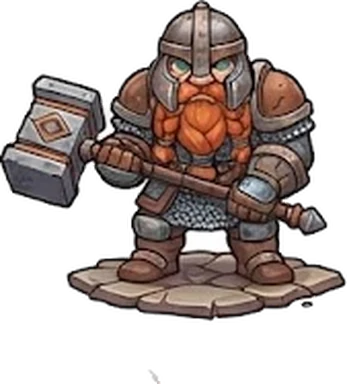
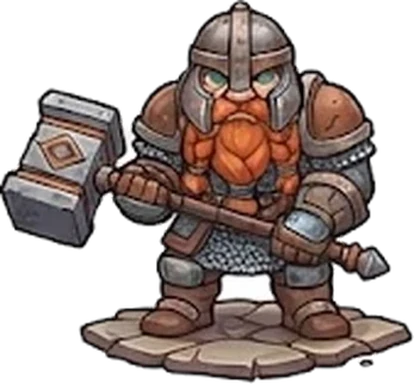
Brann bien colocado en su tarjeta, sin etiqueta Héroe y Morgana se carga en 30 s

diff --git a/sw.js b/sw.js
@@ -2,7 +2,7 @@
 // Guarda el juego para poder jugar sin conexión. Página, JS y CSS van
 // primero a la red (así se ven los cambios al momento); imágenes y fuentes
 // salen de la caché y se renuevan por detrás.
-var CACHE = 'reino-de-torres-v68';
+var CACHE = 'reino-de-torres-v69';
 var CORE = ['./', 'index.html', 'style.css', 'favicon.svg', 'manifest.json', 'js/data.js', 'js/version.js', 'js/art.js', 'js/meta.js', 'js/board.js', 'js/battle.js', 'js/ui.js', 'assets/ui/boton.webp', 'assets/ui/boton-jugar.webp', 'assets/ui/banner-mazo.webp', 'assets/ui/hueco-cofre.webp', 'assets/ui/boton-duelo.webp', 'assets/ui/boton-coop.webp', 'assets/ui/banner-comandante.webp', 'assets/ui/header.webp', 'assets/ui/navbar.webp', 'assets/ui/titulo.webp', 'assets/ui/letrero.webp', 'assets/tablero.webp', 'assets/enemies/blob.webp', 'assets/ui/fondo.webp', 'assets/ui/boton-invocar.webp', 'assets/ui/marco-carta.webp', 'assets/ui/carta.webp', 'assets/ui/vida.webp', 'assets/ui/mana.webp', 'assets/ui/contador-mana.webp', 'assets/ui/comandante.webp', 'assets/ui/boton-invocar-2.webp', 'assets/ui/boton-invocar-gris.webp', 'assets/ui/marco.webp', 'assets/ui/marco-tienda.webp', 'assets/ui/filtro-rareza.webp', 'assets/ui/filtro-rareza-h.webp?v=2', 'assets/ui/modo-campana.webp', 'assets/ui/modo-duelo.webp', 'assets/ui/modo-coop.webp', 'assets/ui/modo-torneo.webp', 'assets/ui/modo-coop-limpio.webp', 'assets/ui/modo-roguelike.webp', 'assets/chests/destello.webp', 'assets/chests/moneda.webp', 'assets/chests/oro-monedas.webp', 'assets/chests/oro-saco.webp', 'assets/chests/oro-cofre.webp', 'assets/commanders/aria.webp?v=2', 'assets/commanders/aria-cuerpo.webp', 'assets/commanders/merlo.webp?v=2', 'assets/commanders/merlo-cuerpo.webp', 'assets/commanders/brann.webp?v=2', 'assets/commanders/brann-cuerpo.webp', 'assets/commanders/nyx.webp', 'assets/commanders/nyx-cuerpo.webp', 'assets/commanders/sol.webp', 'assets/commanders/sol-cuerpo.webp', 'assets/commanders/morgana.webp', 'assets/commanders/morgana-cuerpo.webp', 'assets/commanders/torvald.webp', 'assets/commanders/torvald-cuerpo.webp', 'assets/events/eclipse.webp', 'assets/events/lluvia.webp', 'assets/events/niebla.webp', 'assets/events/horda.webp', 'assets/events/calma.webp', 'assets/boards/lava2.webp', 'assets/boards/hielo.webp', 'assets/boards/roca.webp', 'assets/boards/veneno.webp', 'assets/ui/tarjeta-tienda.webp', 'assets/ui/misiones.webp', 'assets/fx/eco-resuena.webp', 'assets/fx/fusion-eco.webp', 'assets/fx/oria-interes.webp', 'assets/fx/garra-lobo.webp', 'assets/fx/garra-lobo-2.webp', 'assets/ui/tarjeta-comandante-2.webp', 'assets/ui/arbol-talentos.webp', 'assets/ui/arbol-comandante.webp', 'assets/fx/nyx-maldicion.webp', 'assets/fx/nyx-chispas.webp', 'assets/fx/sol-escudo.webp', 'assets/fx/morgana-ensamblaje.webp', 'assets/fx/torvald-forja.webp', 'assets/fx/torvald-carga.webp', 'assets/fx/ventisca.webp', 'assets/fx/marea.webp', 'assets/fx/meteoro.webp', 'assets/fx/crater.webp', 'assets/fx/boreas-ventisca.webp', 'assets/fx/midas-critico.webp', 'assets/fx/estado-helado.webp', 'assets/fx/estado-armadura.webp', 'assets/fx/estado-quemado.webp', 'assets/fx/estado-veneno.webp', 'assets/fx/estado-critico.webp', 'assets/fx/estado-aturdido.webp', 'assets/chests/oro-rebosante.webp', 'assets/tiles/altar.webp', 'assets/tiles/fuente.webp', 'assets/tiles/atalaya.webp', 'assets/fx/muerte-puf.webp', 'assets/fx/invocar.webp', 'assets/fx/fusion.webp', 'assets/fx/fusion-doblon.webp', 'assets/fx/mover.webp', 'assets/fx/ralentizado-1.webp', 'assets/fx/ralentizado-2.webp', 'assets/fx/ralentizado-3.webp', 'assets/fx/ralentizado-4.webp', 'assets/fx/ralentizado-5.webp', 'assets/fx/conector-fuego.webp', 'assets/fx/conector-hielo.webp', 'assets/fx/conector-naturaleza.webp', 'assets/fx/conector-arcano.webp', 'assets/fx/conector-metal.webp'].concat(['lyra', 'brasa', 'nivea', 'doblon', 'rocco', 'volta', 'mirra', 'melodia', 'sombra', 'cronos', 'halcon', 'ulric', 'fenix', 'aurora', 'titan', 'boreas', 'midas', 'kaia', 'seren', 'oria', 'garra'].map(function (id) { return 'assets/cells/' + id + '.webp'; })).concat(['piedra-1'].map(function (k) { return 'assets/tiles/' + k + '.webp?v=2'; })).concat(['comun', 'rara', 'epica', 'mitica', 'legendaria'].map(function (k) { return 'assets/ui/tienda-' + k + '.webp'; })).concat(['lyra', 'brasa', 'nivea', 'doblon', 'rocco', 'volta', 'mirra', 'melodia', 'sombra', 'cronos', 'halcon', 'ulric', 'fenix', 'aurora', 'titan', 'boreas', 'midas', 'kaia', 'seren', 'eco', 'oria', 'garra'].map(function (id) { return 'assets/units/' + id + '.webp'; })).concat(['lyra', 'brasa', 'nivea', 'doblon', 'rocco', 'volta', 'mirra', 'melodia', 'sombra', 'cronos', 'halcon', 'ulric', 'fenix', 'aurora', 'titan', 'boreas', 'midas', 'kaia', 'seren'].reduce(function (a, id) { return a.concat(['assets/units/board/' + id + '-idle.webp?v=2', 'assets/units/board/' + id + '-attack.webp']); }, [])).concat(['eco', 'oria', 'garra'].map(function (id) { return 'assets/units/board/' + id + '-idle.webp?v=2'; })).concat(['madera', 'plata', 'oro', 'comandante', 'legendario'].reduce(function (a, k) { return a.concat(['assets/chests/' + k + '.webp', 'assets/chests/' + k + '-abierto.webp', 'assets/chests/portal-' + k + '.webp']); }, ['assets/chests/legendario-abriendo.webp']).concat(['comun', 'rara', 'epica', 'mitica', 'legendaria'].reduce(function (a, k) { return a.concat(['assets/ui/fondo-carta-' + k + '.webp', 'assets/ui/cinta-' + k + '.webp']); }, []))).concat(['fuego', 'hielo', 'veneno', 'canon', 'flecha', 'rayo', 'sombra', 'engranaje', 'bala', 'luz'].reduce(function (a, k) { return a.concat(['destello', 'bola', 'impacto'].map(function (p) { return 'assets/fx/' + k + '-' + p + '.webp'; })); }, [])).concat(['moneda', 'gema', 'trofeo', 'estrella', 'gota', 'corona', 'espadas', 'escudo', 'candado', 'pergamino', 'ticket', 'reloj', 'fuego', 'hielo', 'hoja', 'arcano', 'engranaje', 'explosion', 'veneno', 'rayo', 'critico', 'perfora', 'musica', 'diana', 'grafico', 'vecinas', 'chispas', 'calavera', 'ola', 'rival-facil', 'rival-normal', 'rival-dificil', 'derrota', 'sonido', 'silencio', 'rapido', 'reiniciar', 'casa', 'aviso', 'mano', 'dado', 'recolocar', 'mejorar'].map(function (k) { return 'assets/icons/' + k + '.webp'; })).concat(['ghost', 'brute', 'orco', 'rocoso', 'escarcha', 'gelido', 'coloso', 'coloso2', 'nigro', 'dragon'].map(function (id) { return 'assets/enemies/' + id + '.webp'; }));
 self.addEventListener('install', function (e) { e.waitUntil(caches.open(CACHE).then(function (c) { return c.addAll(CORE); }).then(function () { return self.skipWaiting(); })); });
 self.addEventListener('activate', function (e) { e.waitUntil(caches.keys().then(function (ks) { return Promise.all(ks.filter(function (k) { return k !== CACHE; }).map(function (k) { return caches.delete(k); })); }).then(function () { return self.clients.claim(); })); });

diff --git a/js/ui.js b/js/ui.js
@@ -239,13 +239,12 @@ function renderMenu(name, arg) {
     var cs = COMMANDERS[meta.commander], cc = meta.cmdCards[meta.commander];
     var cNeed = cmdCardsNeeded(cc.lv), cGold = cmdUpgradeGold(cc.lv), cMax = cc.lv >= CMD_MAX;
     var cWhy = cMax ? '' : cc.n < cNeed ? (cNeed - cc.n === 1 ? 'Falta 1 carta' : 'Faltan ' + (cNeed - cc.n) + ' cartas') : meta.gold < cGold ? 'Te faltan ' + (cGold - meta.gold) + ' 🪙' : '';
-    html = backBar('Mazo', true) + deckTabs('commanders') + '<p class="lead">Su habilidad se carga durante la partida. Pulsa su retrato para usarla. Los héroes la usan sobre el tablero: eliges las tropas.</p>' +
+    html = backBar('Mazo', true) + deckTabs('commanders') + '<p class="lead">Su habilidad se carga durante la partida. Pulsa su retrato para usarla. Morgana y Torvald la usan sobre el tablero: eliges tú las tropas.</p>' +
       '<div class="cmd-cards">' + COMMANDER_ORDER.map(function (k, i) {
         var c = COMMANDERS[k];
         var own = cmdOwned(k);
         return '<button class="cmd-card' + (meta.commander === k ? ' sel' : '') + (own ? '' : ' locked') + '" data-cmd="' + k + '" style="--cc:' + c.color + '" aria-label="' + esc(c.name) + '">' +
           '<img class="cmd-body" src="' + c.body + '" alt=""><span class="cmd-frame"></span><b>' + esc(c.name) + '</b>' +
-          (c.hero ? '<span class="cmd-hero">Héroe</span>' : '') +
           (own ? '<span class="cmd-lv' + (canUpgradeCmd(k) ? ' ready' : '') + '">Nv ' + cmdLevel(k) + '</span>' : '<span class="cmd-lock">' + ico('icons/candado') + '</span>') +
           '</button>';
       }).join('') + '</div>' +
@@ -1843,7 +1842,7 @@ function initGame() {
     if (!battle || battleBusy()) return;
     if (COMMANDERS[battle.player.commander].hero) {
       if (battle.targeting) { cancelHeroTarget(); return; }
-      if (battle.player.charge < 1) { toast('El héroe aún se está cargando'); return; }
+      if (battle.player.charge < 1) { toast('El comandante aún se está cargando'); return; }
       if (!battle.player.heroPicks() && !battle.player.cells.some(function (u) { return u && u.rank < MAX_RANK; })) { toast('No tienes tropas que elegir'); return; }
       startHeroTarget();
       return;

diff --git a/js/data.js b/js/data.js
@@ -420,7 +420,7 @@ var COMMANDERS = {
   sol:   { name: 'Sol',   title: 'Paladín del Alba',      color: '#ffc83a', icon: '☀', locked: true, pic: 'assets/commanders/sol.webp', ability: 'Escudo divino', desc: 'Durante 5 segundos no pierdes vidas.', power: 5, cd: 40 },
   // héroes: su habilidad se usa sobre el tablero eligiendo tropas (hero: cuántas);
   // con nivel se cargan antes en vez de tener más fuerza
-  morgana: { name: 'Morgana', title: 'Inventora', color: '#2fd6a0', icon: '⚙', locked: true, pic: 'assets/commanders/morgana.webp', hero: 2, ability: 'Ensamblaje', desc: 'Eliges dos tropas del mismo rango, aunque sean distintas, y se fusionan.', power: 1, cd: 45 },
+  morgana: { name: 'Morgana', title: 'Inventora', color: '#2fd6a0', icon: '⚙', locked: true, pic: 'assets/commanders/morgana.webp', hero: 2, ability: 'Ensamblaje', desc: 'Eliges dos tropas del mismo rango, aunque sean distintas, y se fusionan.', power: 1, cd: 30 },
   torvald: { name: 'Torvald', title: 'Viejo Maestro', color: '#ff7a3c', icon: '🧮', locked: true, pic: 'assets/commanders/torvald.webp', hero: 1, ability: 'Forja', desc: 'Eliges una tropa y sube un rango, hasta el 5.', power: 1, cd: 110 }
 };
 var COMMANDER_ORDER = ['aria', 'merlo', 'brann', 'nyx', 'sol', 'morgana', 'torvald'];

diff --git a/js/version.js b/js/version.js
@@ -7,8 +7,17 @@
    La ventana sale sola al entrar con una versión nueva (meta.lastSeenVersion)
    y también desde Opciones.
    ========================================================= */
-var APP_VERSION = '1.16.1';
+var APP_VERSION = '1.16.2';
 var APP_PATCH_NOTES = [
+  {
+    version: '1.16.2',
+    summary: 'Morgana se carga antes y Brann bien colocado',
+    items: [
+      'Morgana se carga en 30 segundos en vez de 45.',
+      'Brann ya no sale demasiado arriba en su tarjeta.',
+      'Morgana y Torvald ya no llevan la etiqueta Héroe.'
+    ]
+  },
   {
     version: '1.16.1',
     summary: 'Tablero del rival más grande y talentos más claros',

diff --git a/index.html b/index.html
@@ -57,12 +57,12 @@
   <div id="overlay" class="overlay" hidden></div>
   <div id="toast" class="toast"></div>
 
-  <script src="js/data.js?v=42"></script>
-  <script src="js/version.js?v=30"></script>
+  <script src="js/data.js?v=43"></script>
+  <script src="js/version.js?v=31"></script>
   <script src="js/art.js?v=41"></script>
   <script src="js/meta.js?v=28"></script>
   <script src="js/board.js?v=41"></script>
   <script src="js/battle.js?v=49"></script>
-  <script src="js/ui.js?v=60"></script>
+  <script src="js/ui.js?v=61"></script>
 </body>
 </html>

diff --git a/README.md b/README.md
@@ -52,7 +52,7 @@ Tres cartas con mecánica propia (arte recortado de `assets/eco-set-imagenes-1.j
 - **Rasgos de posición**: Nívea pega más con otra Nívea al lado (`twin`), Mirra y Cronos con vecinas distintas (`mixed`) y Halcón en las casillas de fuera (`edge`).
 - **Casillas especiales** que cambian cada partida: Altar (+daño), Fuente (maná) y Atalaya (+velocidad).
 - **Afinidad elemental**: cada vecina del mismo elemento suma +12% de daño.
-- **Comandantes** con habilidad que se carga: Aria (Ventisca), Merlo (Marea de maná), Brann (Meteoro), Nyx (Maldición: +60% de daño recibido) y Sol (Escudo divino: no pierdes vidas). Efectos de los cuatro nuevos en `assets/fx/` (de `assets/pack-efectos-nyx-sol-morgana-tormal.jpg`): `nyx-maldicion` (anillo a los pies de los monstruos malditos) y `nyx-chispas`, `sol-escudo` (esfera en la salida), `morgana-ensamblaje` y `torvald-forja` y `torvald-carga`. **Héroes**, que usan su habilidad eligiendo tropas del tablero: Morgana (Transmutación: fusiona dos tropas cualesquiera del mismo rango) y Torvald (Forja: +1 rango hasta el 5). Con nivel, los héroes se cargan antes (`cmdCd`). Nyx, Sol, Morgana y Torvald (arte de `assets/pack-nyx-sol-morgana-tormal.jpg`: retrato en círculo y figura con su losa, sin la barra de tiempo ni la esfera de luz) empiezan bloqueados (`locked`, `meta.cmdOwned`) y se consiguen con su primera carta de comandante en un cofre. **Árbol de habilidades** de cada comandante (`CMD_TREE`): en el nivel 5 se elige 1 rama de 2 y en el 25, 2 de 3 (`CMD_TREE_LV`, `CMD_TREE_PICK`); se aplican al empezar la partida (`applyCmdNode`) y el rival elige al azar. Suben de nivel hasta el 25 (+8% de fuerza por nivel hasta el 10 y +3% del 11 al 25) con las cartas del cofre de comandante (10 cartas de un mismo comandante al azar; el cofre de oro trae 4 la mitad de las veces), que se gana en el Torneo y está en la tienda.
+- **Comandantes** con habilidad que se carga: Aria (Ventisca), Merlo (Marea de maná), Brann (Meteoro), Nyx (Maldición: +60% de daño recibido) y Sol (Escudo divino: no pierdes vidas). Efectos de los cuatro nuevos en `assets/fx/` (de `assets/pack-efectos-nyx-sol-morgana-tormal.jpg`): `nyx-maldicion` (anillo a los pies de los monstruos malditos) y `nyx-chispas`, `sol-escudo` (esfera en la salida), `morgana-ensamblaje` y `torvald-forja` y `torvald-carga`. **Héroes**, que usan su habilidad eligiendo tropas del tablero: Morgana (Transmutación: fusiona dos tropas cualesquiera del mismo rango) y Torvald (Forja: +1 rango hasta el 5; Morgana se carga en 30 s y Torvald en 110 s). Con nivel, los héroes se cargan antes (`cmdCd`). Nyx, Sol, Morgana y Torvald (arte de `assets/pack-nyx-sol-morgana-tormal.jpg`: retrato en círculo y figura con su losa, sin la barra de tiempo ni la esfera de luz) empiezan bloqueados (`locked`, `meta.cmdOwned`) y se consiguen con su primera carta de comandante en un cofre. **Árbol de habilidades** de cada comandante (`CMD_TREE`): en el nivel 5 se elige 1 rama de 2 y en el 25, 2 de 3 (`CMD_TREE_LV`, `CMD_TREE_PICK`); se aplican al empezar la partida (`applyCmdNode`) y el rival elige al azar. Suben de nivel hasta el 25 (+8% de fuerza por nivel hasta el 10 y +3% del 11 al 25) con las cartas del cofre de comandante (10 cartas de un mismo comandante al azar; el cofre de oro trae 4 la mitad de las veces), que se gana en el Torneo y está en la tienda.
 - **🏅 Torneo** (carta propia en la pantalla principal, con su pantalla de niveles y premio): duelo con tus cartas y las del rival a nivel de torneo (común 8, rara 6, épica 4, mítica 2, legendaria 1; `TOURNEY_LV` en `js/data.js`) y los dos comandantes al nivel 5. El rival puede llevar cualquier tropa. Tres formas de jugarlo (`TOURNEY_MODES`): Clásico (tu mazo), Mazo prestado (uno de `TOURNEY_DECKS` para cada uno) y Cartas al azar (cinco tropas al azar, con al menos tres que atacan). Sin trofeos; si ganas, cofre de comandante.
 - **Eventos de oleada**: Eclipse, Lluvia de maná, Niebla, Horda y Calma.
 - **Jefes** con habilidades: se dividen, congelan tropas, se blindan, invocan o queman rangos.
